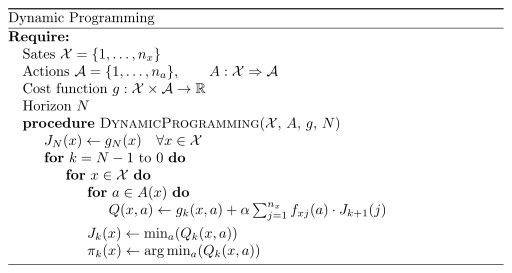
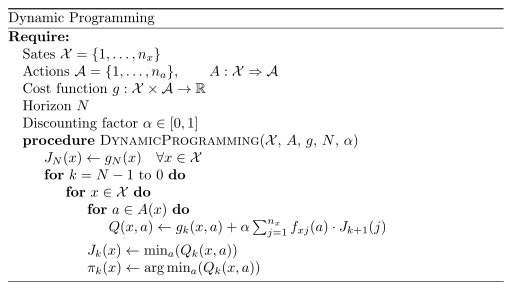
Improve pseudocode

Changed region(s): [[0.0, 0.0, 1.0, 0.9963]]

diff --git a/source-code/Pseudocode/dynamic-programming/dynamic-programming.tex b/source-code/Pseudocode/dynamic-programming/dynamic-programming.tex
@@ -23,7 +23,8 @@
         \Statex Actions $\mathcal{A} = \{1, \dots, n_a\},\qquad A: \mathcal{X} \Rightarrow \mathcal{A}$
         \Statex Cost function $g: \mathcal{X} \times \mathcal{A} \rightarrow \mathbb{R}$
         \Statex Horizon $N$
-        \Procedure{DynamicProgramming}{$\mathcal{X}$, $A$, $g$, $N$}
+        \Statex Discounting factor $\alpha \in [0, 1]$
+        \Procedure{DynamicProgramming}{$\mathcal{X}$, $A$, $g$, $N$, $\alpha$}
             \State $J_N(x) \gets g_N(x) \quad \forall x \in \mathcal{X}$
             \For{$k = N - 1$ to $0$}
                 \For{$x \in \mathcal{X}$}
